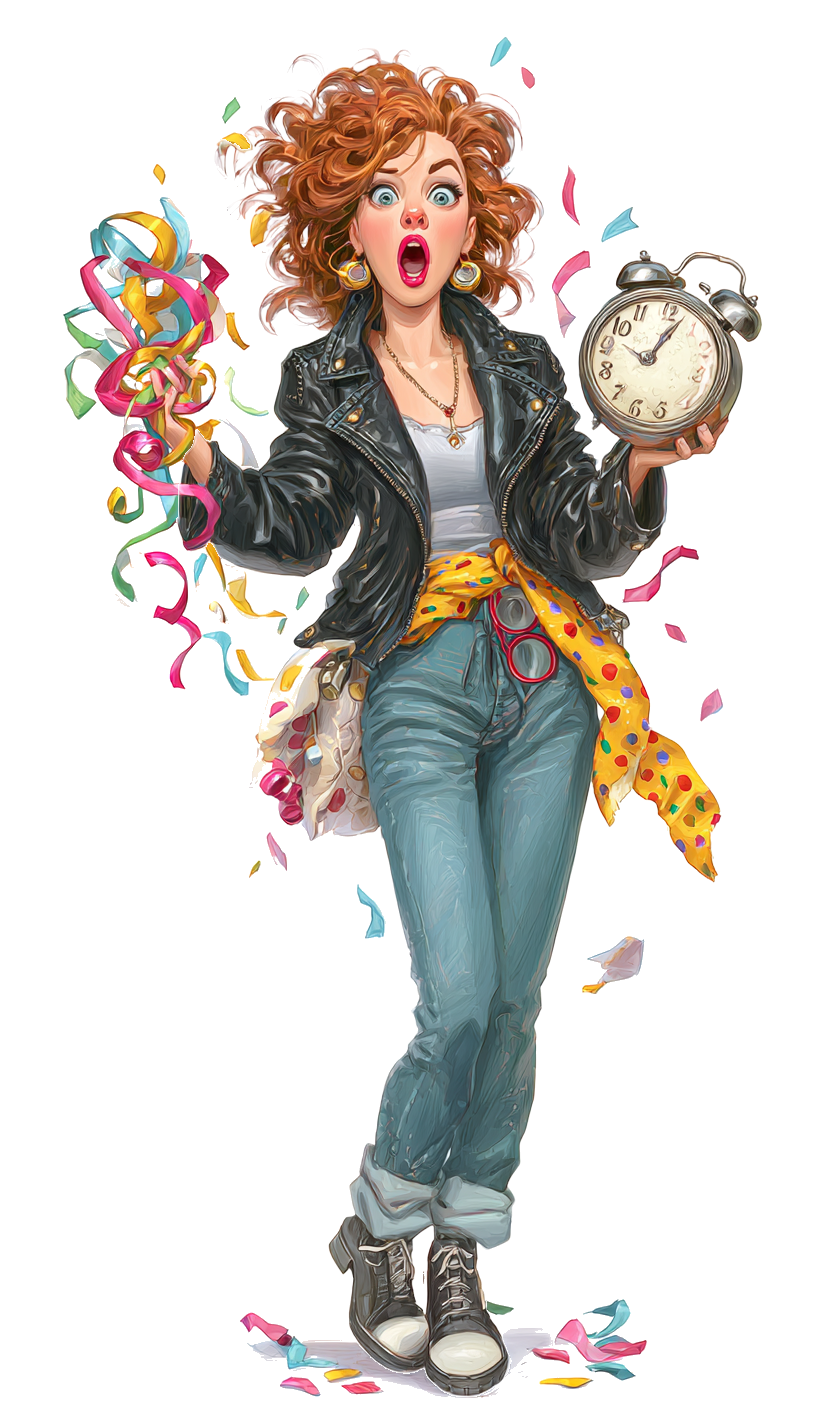
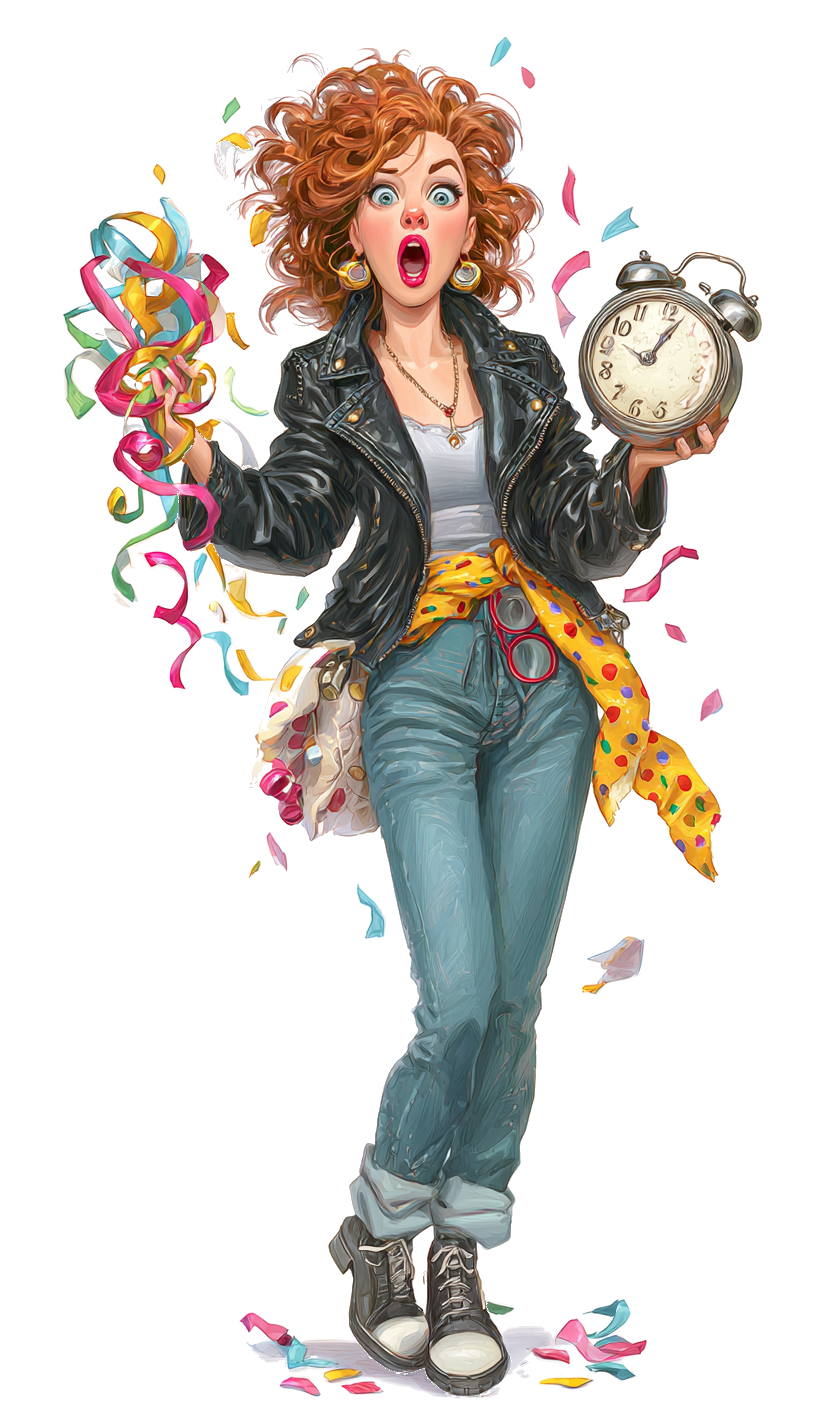
ajustes menores.

diff --git a/bgremover.py b/bgremover.py
@@ -87,17 +87,25 @@ def remove_background(input_path, output_path, verbose=False, tolerance=30):
             return False
 
         # --- Paso 1: BiRefNet define la silueta principal ---
-        # Uso birefnet-general sin alpha matting porque su mascara nativa ya es
-        # de alta calidad y el matting con erosion eliminaba detalles finos.
+        # Reactivo alpha matting pero con erode_size=0 para refinar los bordes del pelo
+        # sin comerse los detalles finos. El erode_size=3 anterior era el culpable de
+        # perder manos y decoraciones. El foreground_threshold=290 estaba fuera de rango.
         if verbose:
-            print("🤖 Paso 1: Segmentando con BiRefNet...")
+            print("🤖 Paso 1: Segmentando con BiRefNet + alpha matting...")
 
         session = new_session('birefnet-general')
 
         with open(input_path, 'rb') as f:
             input_data = f.read()
 
-        birefnet_output = remove(input_data, session=session, alpha_matting=False)
+        birefnet_output = remove(
+            input_data,
+            session=session,
+            alpha_matting=True,
+            alpha_matting_foreground_threshold=240,
+            alpha_matting_background_threshold=10,
+            alpha_matting_erode_size=0,
+        )
         birefnet_img = Image.open(io.BytesIO(birefnet_output)).convert('RGBA')
         birefnet_alpha = np.array(birefnet_img)[:, :, 3]  # canal alpha: 0=fondo, 255=sujeto
 
@@ -132,6 +140,39 @@ def remove_background(input_path, output_path, verbose=False, tolerance=30):
 
         # Recupero los pixels de color que BiRefNet no incluyo (decoraciones)
         result[colored_outside_birefnet, 3] = 255
+
+        # Suavizo el borde exterior de los elementos decorativos recuperados.
+        # Dilato su mascara 2px para encontrar la franja de transicion con el fondo
+        # y aplico alpha proporcional a la fuerza del color, igual que en el pelo.
+        deco_border = colored_outside_birefnet.copy()
+        for _ in range(2):
+            deco_border = (
+                np.roll(deco_border, 1, axis=0) | np.roll(deco_border, -1, axis=0) |
+                np.roll(deco_border, 1, axis=1) | np.roll(deco_border, -1, axis=1)
+            )
+        deco_border_zone = deco_border & ~colored_outside_birefnet & exterior_white
+
+        r_ch = data[:, :, 0].astype(np.int32)
+        g_ch = data[:, :, 1].astype(np.int32)
+        b_ch = data[:, :, 2].astype(np.int32)
+        whiteness = np.minimum(r_ch, np.minimum(g_ch, b_ch))
+        color_strength = np.clip((1.0 - whiteness / 255.0) * 4.0, 0.0, 1.0)
+        result[deco_border_zone, 3] = (255 * color_strength[deco_border_zone]).astype(np.uint8)
+
+        # --- Paso 4: Descontaminacion de color blanco en bordes ---
+        # Los pixels semitransparentes del borde mezclan el color real con el
+        # blanco del fondo original. Calculo el color verdadero deshaciendo esa mezcla:
+        # Si observed = a * F + (1-a) * 255, entonces F = (observed - 255) / a + 255
+        if verbose:
+            print("🧹 Paso 4: Descontaminando halo blanco en bordes...")
+
+        semi_mask = (result[:, :, 3] > 20) & (result[:, :, 3] < 235)
+        if semi_mask.any():
+            a = result[semi_mask, 3].astype(np.float32) / 255.0
+            for c in range(3):
+                observed = result[semi_mask, c].astype(np.float32)
+                true_color = (observed - 255.0) / a + 255.0
+                result[semi_mask, c] = np.clip(true_color, 0, 255).astype(np.uint8)
 
         Image.fromarray(result).save(output_path, 'PNG')
 
